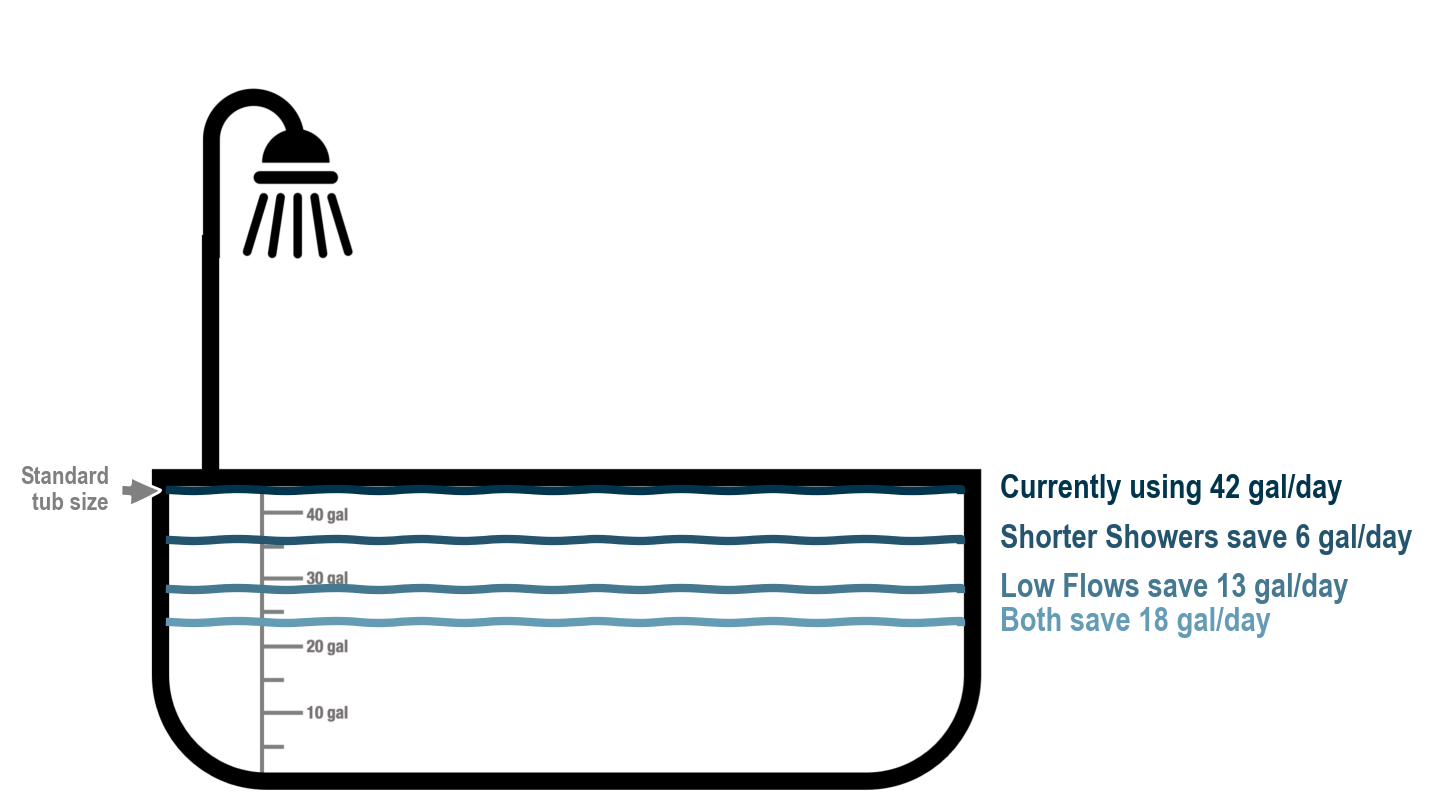
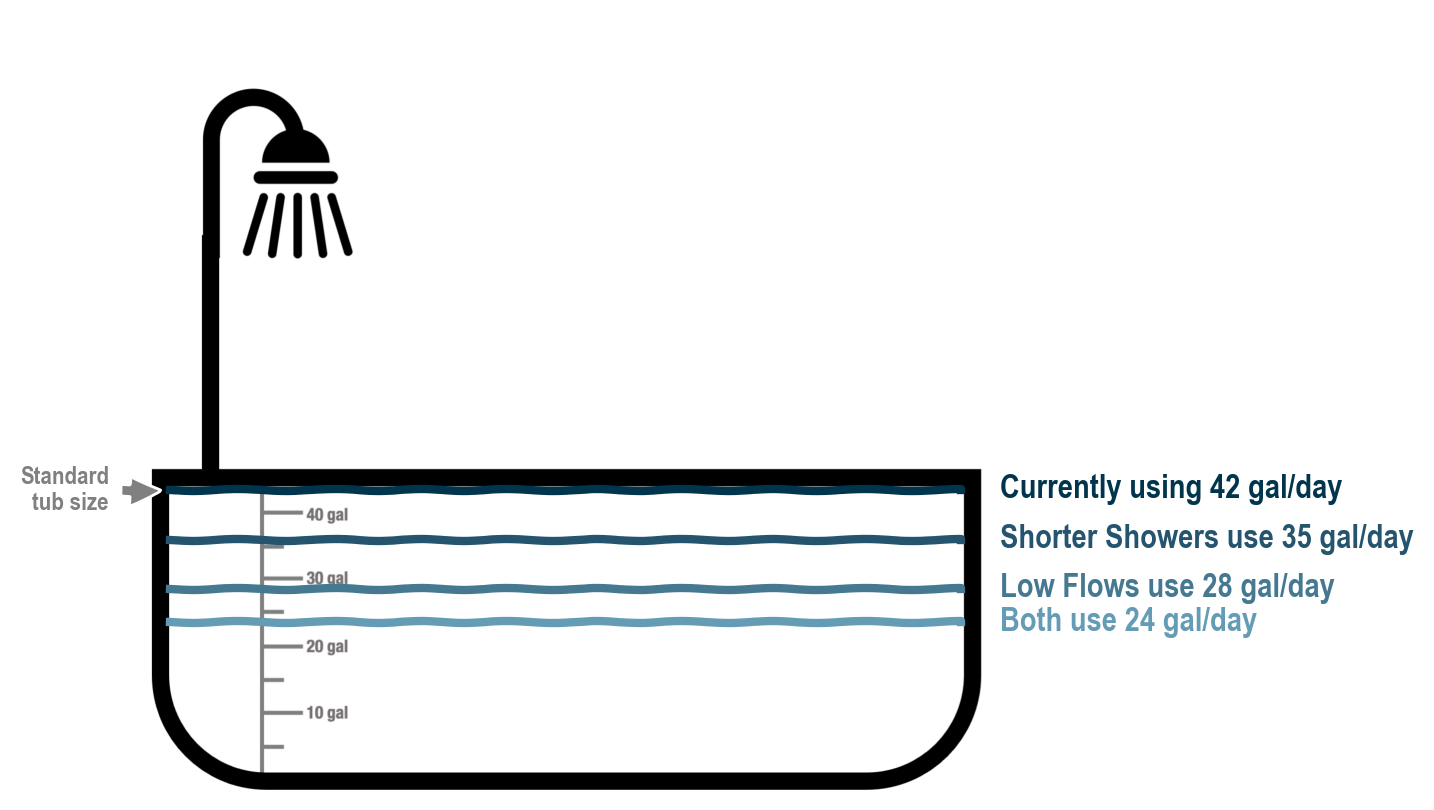
adding milkjug savings plot

diff --git a/IndoorWaterUse.py b/IndoorWaterUse.py
@@ -20,6 +20,7 @@ import pandas as pd
 import numpy as np
 import matplotlib.pyplot as plt
 from matplotlib import rcParams
+from matplotlib import gridspec
 #####################
 
 # Import Classified/Labeled Event Data
@@ -184,13 +185,16 @@ both_vol = short_dur * low_flow
 both_save = current_daily_vol - both_vol
 # saving 14 gal/day
 
+#####################
 # Plotting
 #####################
+
 # inputs
 Scenario = ['Current Showering', 'Shorter Showers', 'Ultra Low Flow', 'Shorter and Low Flow']
 Volume = [current_daily_vol, short_dur_vol, low_flow_vol, both_vol]
 
-# plots a bar chart
+# Bar Chart
+#####################
 fig4 = plt.figure(figsize=(8, 5))
 ax = fig4.add_subplot(1, 1, 1)
 colors = ['#004c6d', '#3d708f', '#75a1be', '#94bed9']
@@ -213,17 +217,19 @@ plt.show()
 plt.savefig('Images/shower_scenarios.png', bbox_inches='tight')
 
 
-# plots an analogous bathtub image
-Labels = ['Currently using ' + str(current_daily_vol.astype(int)) + ' gal/day',
-          'Shorter Showers save ' + str((current_daily_vol - short_dur_vol).astype(int)) +' gal/day',
-          'Low Flows save ' + str((current_daily_vol - low_flow_vol).astype(int)) +' gal/day',
-          'Both save ' + str((current_daily_vol - both_vol).astype(int)) +' gal/day']
+# Bathtub Plot
+#####################
+Labels = ['Currently using ' + str(round(current_daily_vol)) + ' gal/day',
+          'Shorter Showers use ' + str(round(short_dur_vol)) +' gal/day',
+          'Low Flows use ' + str(round(low_flow_vol)) +' gal/day',
+          'Both use ' + str(round(both_vol)) +' gal/day']
 colors = ['#00354d', '#25556e', '#457891', '#659cb5']
 # read in bathtub image
 img = plt.imread('Images/TubEmpty.png')
 fig5 = plt.figure(figsize=(8, 5))
 ax = fig5.add_subplot(1, 1, 1)
 ax.axis('off')
+ax.imshow(img, extent=[0, 140, 0, 108])
 # to get wavy lines
 rcParams['path.sketch'] = (1, 100, 2)
 # lines and labels
@@ -231,8 +237,7 @@ for i in range(len(Volume)):
     ax.plot(np.linspace(3.5, 114.5, 1000), [Volume[i]] * 1000, color=colors[i], linewidth=3)
     plt.text(x=120, y=Volume[i], s=Labels[i],
              fontweight='bold', color=colors[i], fontname='Arial Narrow', va='center',fontsize=12)
-ax.imshow(img, extent=[0, 140, 0, 108])
-# Standard tub size annotation with arrow
+# standard tub size annotation with arrow
 ax.annotate('Standard\ntub size', xy=(3, 42), xytext=(-5, 42), annotation_clip=False, rotation=0,
             fontsize=9, ha='right', va='center', fontname='Arial Narrow', color='gray', fontweight='bold',
             arrowprops=dict(arrowstyle='simple', mutation_scale=22, facecolor='gray', edgecolor='w'),
@@ -245,6 +250,53 @@ rcParams['path.sketch'] = (0, 0, 0)
 
 # to save
 plt.savefig('Images/tub_illustration.png', bbox_inches='tight')
+
+# Savings Plot
+#####################
+# plots milkjug images to indicate savings in gallons/day
+
+# inputs
+savings = [round(current_daily_vol - short_dur_vol),
+           round(current_daily_vol - low_flow_vol),
+           round(current_daily_vol - both_vol)]
+text = ['Shorter Showers save\n' + str(savings[0]) +' gallons/day',
+          'Low Flows save\n' + str(savings[1]) +' gallons/day',
+          'Both save\n' + str(savings[2]) +' gallons/day']
+colors = ['#25556e', '#457891', '#659cb5']
+ncol = max(savings)
+nrow = len(savings)
+
+# create plot
+fig6, ax = plt.subplots(nrows=rows, ncols=ncol, figsize=(ncol, nrow))
+# reduce spacing
+fig6.subplots_adjust(hspace=0.00, wspace=0.00)
+gs = gridspec.GridSpec(nrow, ncol,
+         wspace=0.0, hspace=0.0,
+         top=1.-0.5/(nrow+1), bottom=0.5/(nrow+1),
+         left=0.5/(ncol+1), right=1-0.5/(ncol+1))
+# create subplots. each subplot corresponding to savings receives a milkjug image.
+for i, axi in enumerate(ax.flat):
+    axi.axis('off')
+    # i runs from 0 to (nrows * ncols-1)
+    # axi is equivalent with ax[rowid][colid]
+    if (i < savings[0]) or (ncol <= i < (ncol + savings[1])) or (ncol * 2 <= i < (ncol * 2 + savings[2])):
+        img = plt.imread('Images/milkjug.png')
+        axi.imshow(img, alpha=0.95, extent=[0, 550, 0, 550])
+# add text
+ax[0][0].annotate(text[0], xy=(0, 275), xytext=(0, 275), annotation_clip=False, rotation=0,
+            fontsize=11, ha='right', va='center', fontname='Arial Narrow', color=colors[0], fontweight='bold',
+            horizontalalignment='right', verticalalignment='top')
+ax[1][0].annotate(text[1], xy=(0, 275), xytext=(0, 275), annotation_clip=False, rotation=0,
+            fontsize=11, ha='right', va='center', fontname='Arial Narrow', color=colors[1], fontweight='bold',
+            horizontalalignment='right', verticalalignment='top')
+ax[2][0].annotate(text[2], xy=(0, 275), xytext=(0, 275), annotation_clip=False, rotation=0,
+            fontsize=11, ha='right', va='center', fontname='Arial Narrow', color=colors[2], fontweight='bold',
+            horizontalalignment='right', verticalalignment='top')
+fig6.suptitle('Shower Scenario Daily Savings')
+plt.show()
+
+# to save
+plt.savefig('Images/milkjug_illustration.png', bbox_inches='tight')
 
 ##########################################
 

diff --git a/InitialDataExploration/VisualizationExplore.py b/InitialDataExploration/VisualizationExplore.py
@@ -457,29 +457,44 @@ for i, rows in df.iterrows():
 
 
 
+import matplotlib.pyplot as plt
+from matplotlib import gridspec
 
-#####################
+savings_labels = ['Shorter Showers', 'Ultra Low Flow', 'Shorter and Low Flow']
+savings = [round(current_daily_vol - short_dur_vol),
+           round(current_daily_vol - low_flow_vol),
+           round(current_daily_vol - both_vol)]
+text = ['Shorter Showers save\n' + str(savings[0]) +' gallons/day',
+          'Low Flows save\n' + str(savings[1]) +' gallons/day',
+          'Both save\n' + str(savings[2]) +' gallons/day']
+colors = ['#25556e', '#457891', '#659cb5']
+ncol = max(savings)
+nrow = len(savings)
 
+fig, ax = plt.subplots(nrows=rows, ncols=ncol, figsize=(ncol, nrow))
+fig.subplots_adjust(hspace=0.00, wspace=0.00)
+gs = gridspec.GridSpec(nrow, ncol,
+         wspace=0.0, hspace=0.0,
+         top=1.-0.5/(nrow+1), bottom=0.5/(nrow+1),
+         left=0.5/(ncol+1), right=1-0.5/(ncol+1))
+for i, axi in enumerate(ax.flat):
+    axi.axis('off')
+    # i runs from 0 to (nrows * ncols-1)
+    # axi is equivalent with ax[rowid][colid]
+    if (i <savings[0]) or (i>= ncol and i <(ncol+savings[1])) or (i>= ncol*2 and i <(ncol*2+savings[2])):
+        img = plt.imread('Images/milkjug.png')
+        axi.imshow(img, alpha=0.95, extent=[0, 550, 0, 550])
+ax[0][0].annotate(text[0], xy=(0, 275), xytext=(0, 275), annotation_clip=False, rotation=0,
+            fontsize=11, ha='right', va='center', fontname='Arial Narrow', color=colors[0], fontweight='bold',
+            horizontalalignment='right', verticalalignment='top',
+            )
+ax[1][0].annotate(text[1], xy=(0, 275), xytext=(0, 275), annotation_clip=False, rotation=0,
+            fontsize=11, ha='right', va='center', fontname='Arial Narrow', color=colors[1], fontweight='bold',
+            horizontalalignment='right', verticalalignment='top',
+            )
+ax[2][0].annotate(text[2], xy=(0, 275), xytext=(0, 275), annotation_clip=False, rotation=0,
+            fontsize=11, ha='right', va='center', fontname='Arial Narrow', color=colors[2], fontweight='bold',
+            horizontalalignment='right', verticalalignment='top',
+            )
+plt.show()
 
-# Overall Waffle Plot
-# Prepare Data
-df = df_events.groupby('Label', as_index=False)['Volume(gal)'].sum()
-df = df[(df.Label != 'irrigation') & (df.Label != 'hose')]
-n_categories = df.shape[0]
-colors = [plt.cm.inferno_r(i/float(n_categories)) for i in range(n_categories)]
-
-# Draw Plot and Decorate
-fig = plt.figure(
-    FigureClass=Waffle,
-    plots={
-        '111': {
-            'values': df['Volume(gal)'],
-            'labels': ["{0} ({1})".format(n[0], n[1]) for n in df[['Label', 'Volume(gal)']].itertuples()],
-            'legend': {'loc': 'upper left', 'bbox_to_anchor': (1.05, 1), 'fontsize': 12},
-            #'title': {'label': '# Vehicles by Class', 'loc': 'center', 'fontsize':18}
-        },
-    },
-    rows=4,
-    colors=colors,
-    figsize=(16, 9)
-)

diff --git a/IrrigationCostScenarios.py b/IrrigationCostScenarios.py
@@ -160,30 +160,34 @@ plt.savefig('Images/outdoor_scenarios.png', bbox_inches='tight')
 fig2 = plt.figure(figsize=(7, 9))
 fig2.subplots_adjust(hspace=0, wspace=0)
 ax = fig2.add_subplot(2, 1, 1)
+# import background
 img = plt.imread('Images/house.png')
 ax.imshow(img, extent=[0, 170, 0, 110])
 ax.axis('off')
+# add text
 plt.text(x=47.5, y=51.15, s='{:,.3f}'.format(lot_size * lot_fraction) + ' acres',
          fontweight='bold', color='w', fontname='Arial Narrow', va='bottom', fontsize=12)
 plt.text(x=140, y=51.15, s='{:,.3f}'.format(lot_size * lot_fraction * lot_reduce) + ' acres',
          fontweight='bold', color='w', fontname='Arial Narrow', va='bottom', fontsize=12)
 
-# Creates an illustration grass comparing weekly watering rates
+# Creates an illustration with grass to compare weekly watering rates
 ax = fig2.add_subplot(2, 1, 2)
+# import background
 img = plt.imread("Images/grass.png")
 ax.imshow(img, extent=[0, 170, 0, 110])
 ax.axis('off')
 # Create a Rectangle patch and add to axes
 rect = patches.Rectangle((3.28, 54.5), 80.15, (25*(current_inches-1)), linewidth=1, edgecolor='#2F5597', facecolor='#2F5597')
 ax.add_patch(rect)
-plt.text(x=26, y=45+(25*(current_inches-1)), s='{:,.2f}'.format(current_inches) + ' inches/week', fontweight='bold', color='w', fontname='Arial Narrow', va='bottom',
-         fontsize=13, alpha=0.8)
-plt.text(x=25, y=55+(25*(current_inches-1)), s='Currently watering', fontweight='bold', color='#203864', fontname='Arial Narrow', va='bottom',
-        fontsize=13)
-plt.text(x=112, y=45, s='1 inch/week', fontweight='bold', color='w', fontname='Arial Narrow', va='bottom',
-         fontsize=13, alpha=0.8)
-plt.text(x=97, y=55, s='Recommended watering', fontweight='bold', color='#203864', fontname='Arial Narrow', va='bottom',
-        fontsize=13)
+# add text
+plt.text(x=26, y=45+(25*(current_inches-1)), s='{:,.2f}'.format(current_inches) + ' inches/week',
+         fontweight='bold', color='w', fontname='Arial Narrow', va='bottom', fontsize=13, alpha=0.8)
+plt.text(x=25, y=55+(25*(current_inches-1)), s='Currently watering',
+         fontweight='bold', color='#203864', fontname='Arial Narrow', va='bottom', fontsize=13)
+plt.text(x=112, y=45, s='1 inch/week',
+         fontweight='bold', color='w', fontname='Arial Narrow', va='bottom', fontsize=13, alpha=0.8)
+plt.text(x=97, y=55, s='Recommended watering',
+         fontweight='bold', color='#203864', fontname='Arial Narrow', va='bottom', fontsize=13)
 
 # to save
 plt.savefig('Images/outdoor_illustration.png', bbox_inches='tight')
